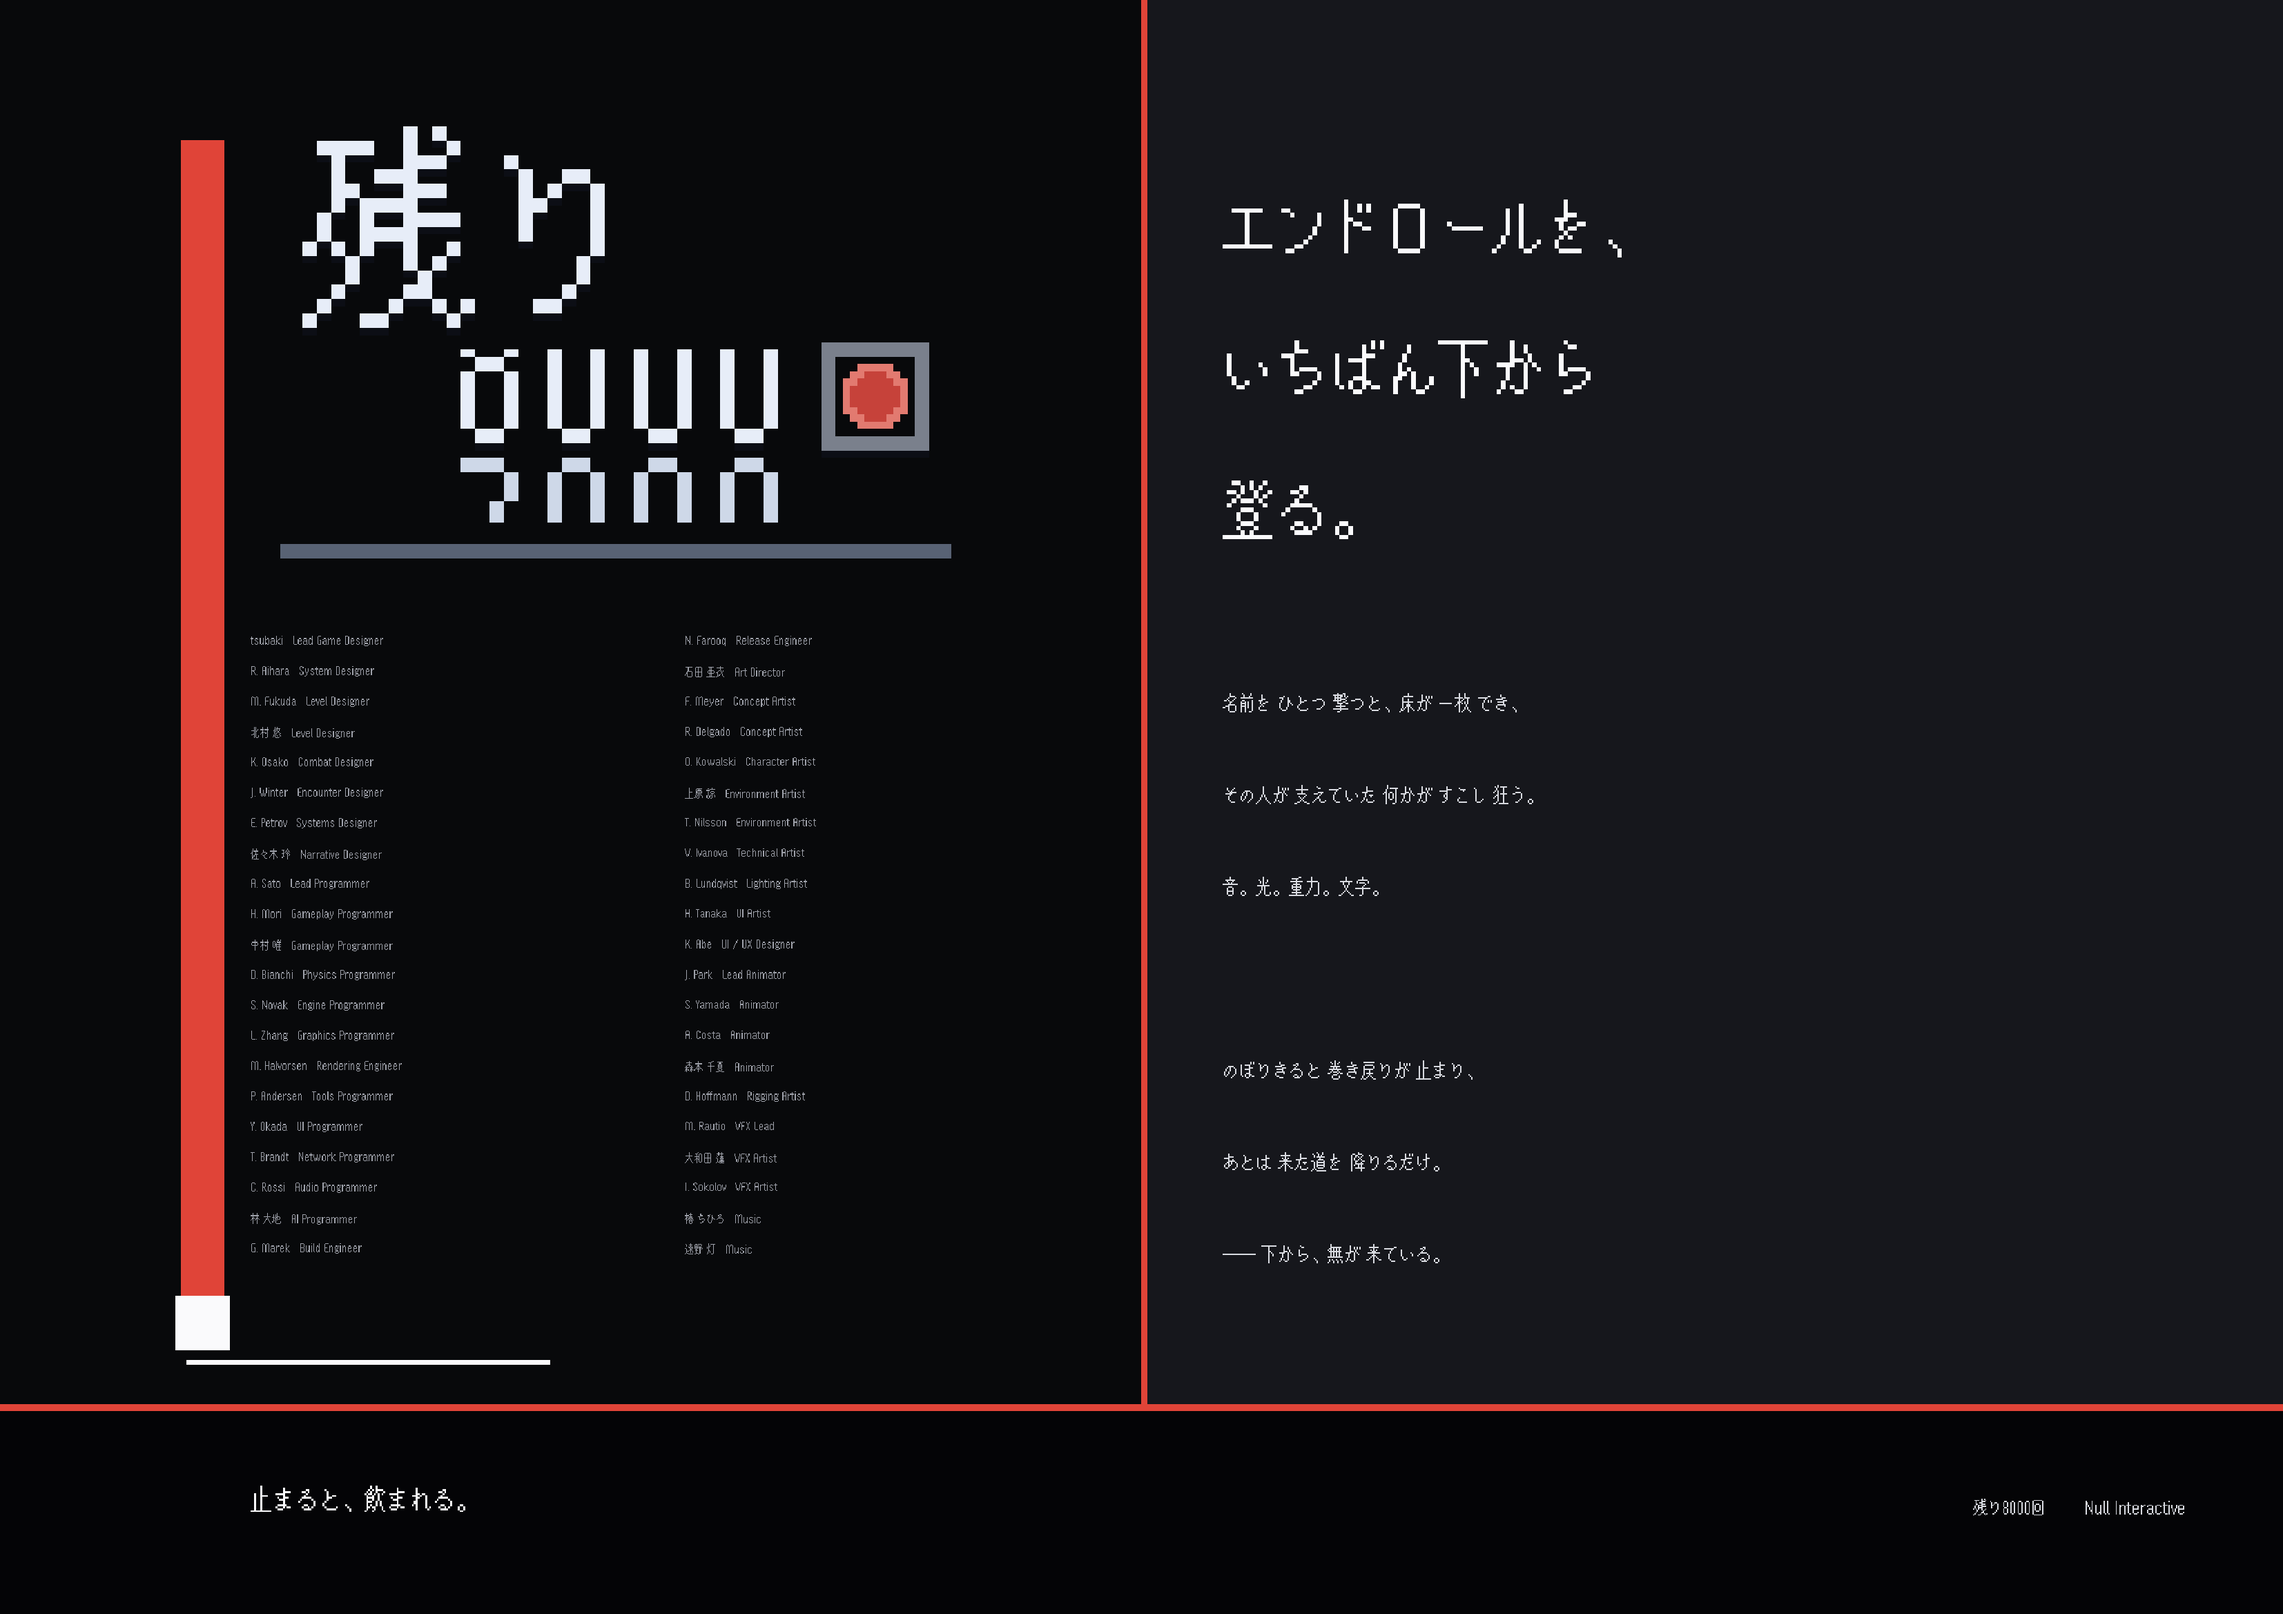
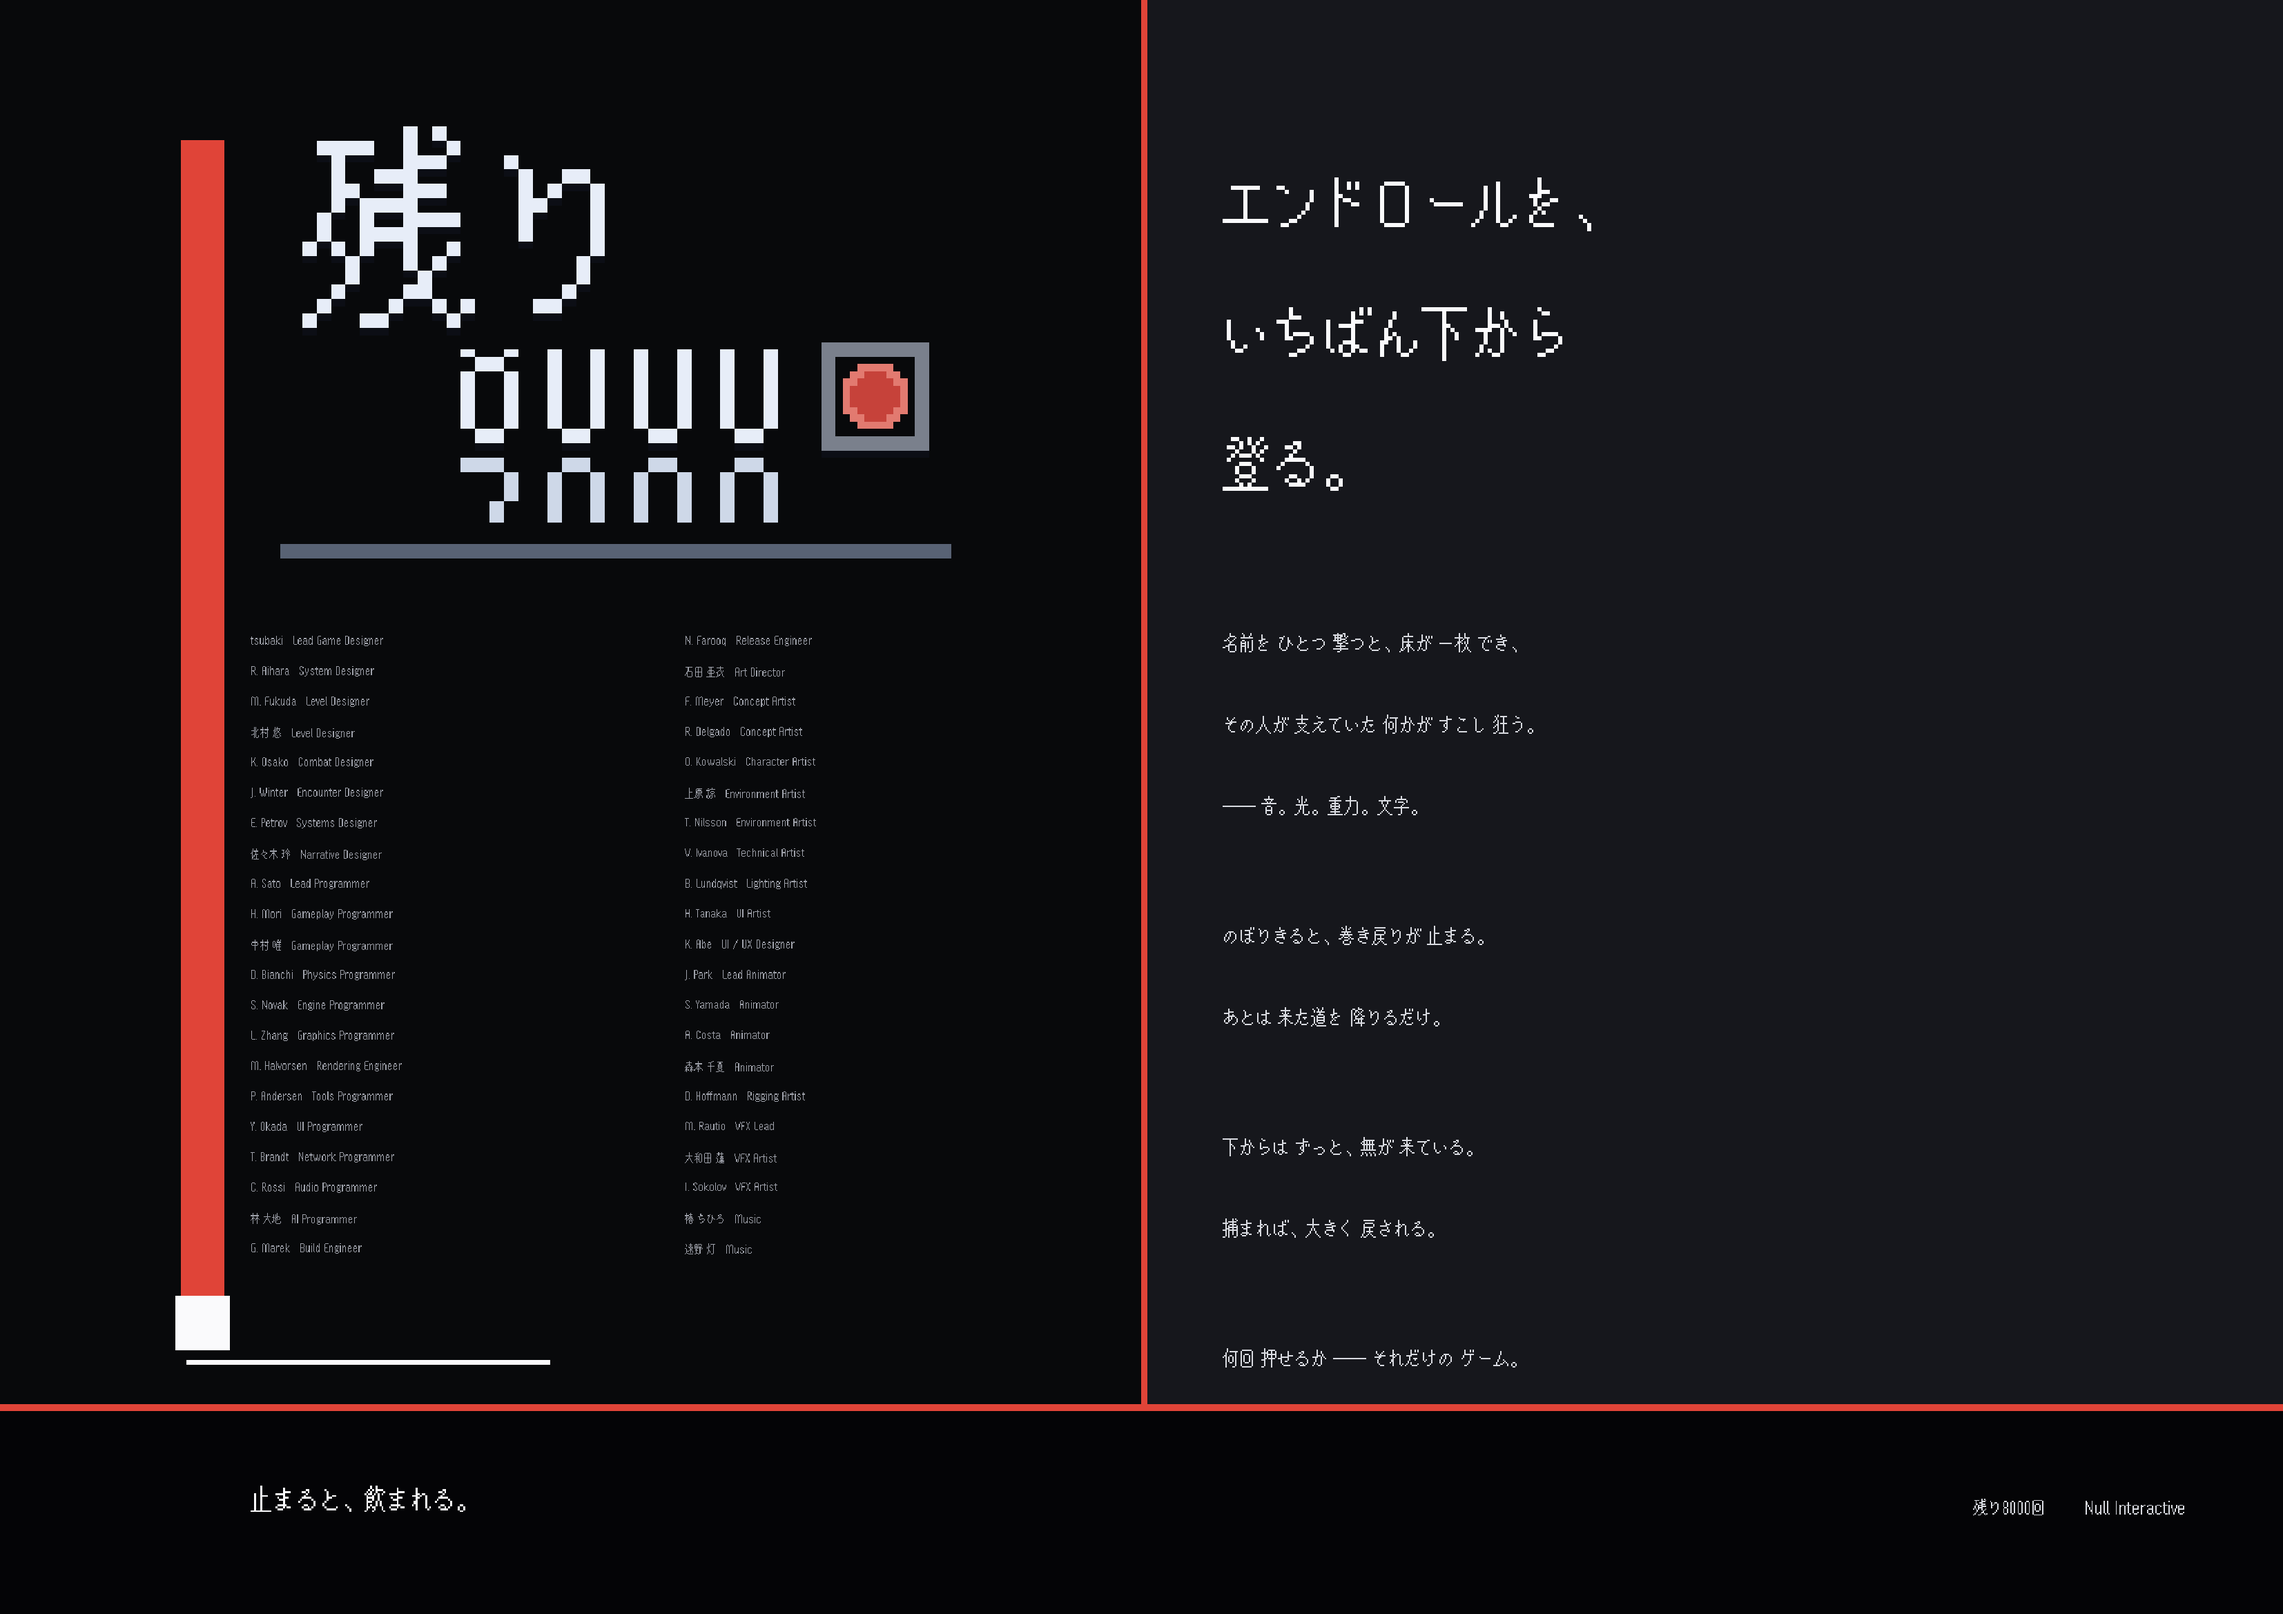
A3 ポスター右パネルの本文を拡充 + パフォーマンス監査
- make_print.py: 右パネル本文を 7→10行に。ゲームの流れ(撃つ→床→歪む→頂上→
  降り→無→「何回押せるか、それだけのゲーム」)。タグライン 104→96px、行送りを
  詰めてパネルを縦いっぱいに使い、下部の黒みを解消。
- パフォーマンス監査(Profiler): 登り+全サボタージュ+ノイズ同時でも Draw Calls 6 /
  CPU 1.5ms / GPU 0.4ms。ノイズは 96x96 の uvRect スクロールのみでコスト無し。
  GTX 1650 でカクつく要素なしを確認(NIGHT_SHIFT に詳細)。

Claude-Session: https://claude.ai/code/session_01JFj4tKBzi9fAPtCjeR3gUc

diff --git a/scripts/make_print.py b/scripts/make_print.py
@@ -99,11 +99,15 @@ def credit_all():
 POSTER_BODY = [
     "名前を ひとつ 撃つと、床が 一枚 でき、",
     "その人が 支えていた 何かが すこし 狂う。",
-    "音。光。重力。文字。",
+    "―― 音。光。重力。文字。",
     "",
-    "のぼりきると 巻き戻りが 止まり、",
+    "のぼりきると、巻き戻りが 止まる。",
     "あとは 来た道を 降りるだけ。",
-    "―― 下から、無が 来ている。",
+    "",
+    "下からは ずっと、無が 来ている。",
+    "捕まれば、大きく 戻される。",
+    "",
+    "何回 押せるか ―― それだけの ゲーム。",
 ]
 
 
@@ -164,15 +168,17 @@ def make_poster():
     dr.rectangle([split_x, 0, split_x + 8, void_y], fill=RED)
 
     tx = split_x + int(15 * MM)
-    ty = pad + int(18 * MM)
+    ty = pad + int(14 * MM)
     for s in ["エンドロールを、", "いちばん下から", "登る。"]:
-        txt(cv, s, tx, ty, 104, INK)
-        ty += int(26 * MM)
-    ty += int(14 * MM)
+        txt(cv, s, tx, ty, 96, INK)
+        ty += int(24 * MM)
+    ty += int(13 * MM)
     for s in POSTER_BODY:
         if s:
             txt(cv, s, tx, ty, 32, SOFT)
-        ty += int(17 * MM)
+            ty += int(15 * MM)
+        else:
+            ty += int(9 * MM)
 
     # === 下端: 「無」。全幅をハードに断つ。縁は赤 ===
     dr.rectangle([0, void_y, W, H], fill=VOID)

diff --git a/NIGHT_SHIFT.md b/NIGHT_SHIFT.md
@@ -642,6 +642,19 @@
 - **今イテレーションのコミットなし**(29e7c64 の部分対応はそのまま維持)。
 - 判定用ハーネスは整備済み: span チェック / 全7ゲート SEALED→OPEN / BFS到達 / スクショ。
 
+### 済(2026-09-10 11:35頃) — パフォーマンス監査 + A3 右パネルの本文を拡充
+- **パフォーマンス監査(Unity Profiler / Play)**: 登り + 全8サボタージュ + ノイズ 同時発動でも
+  - Draw Calls **6** / SetPass 6 / Batches 6、三角形 652・頂点 1304
+  - CPU frame 1.4〜1.6ms、GPU 0.4ms(エディタ実測。ビルドはさらに軽い)
+  - ノイズ = 96x96 Texture2D の uvRect スクロールのみ(再生成なし・コスト実質ゼロ)
+  - GC/frame 約13KB(エディタ+MCP のベースライン。サボタージュで増えない)
+  - タイルストリーミング動作(402枚中 表示32枚)。RenderTexture はエディタ用1枚のみ。
+  → **GTX 1650 でカクつく要素なし**。FB7a「ノイズで動きに遅延」は NoiseCanvas 分離で解消済みを再確認。
+- **A3 ポスター**(前回「右パネル下部の黒み」フラグの続き / ユーザー指示「その分ほかを書く」):
+  `make_print.py` の本文を 7行 → 10行に拡充(撃つ→床→歪む→頂上→降り→無→「何回押せるか、
+  それだけのゲーム」)。タグライン 104→96px、空行の送りを詰めてパネルを縦いっぱいに。
+  → 右パネルの黒みはかなり解消。左の梯子〜無の帯の間は プレイヤー/ビーム帯なので許容。
+
 ### ユーザーの判断待ち(これが無いと night-shift は小さな検証/調査に留まる)
 1. **ゲート天井の装飾**: 現状(29e7c64 で部分改善)で妥協 / レベル高 ±5〜6% 許容してフル修正 / 触らない。
 2. **A3 ポスター**: 右パネルの黒み・本文量・構図。前回送った版へのFB。
